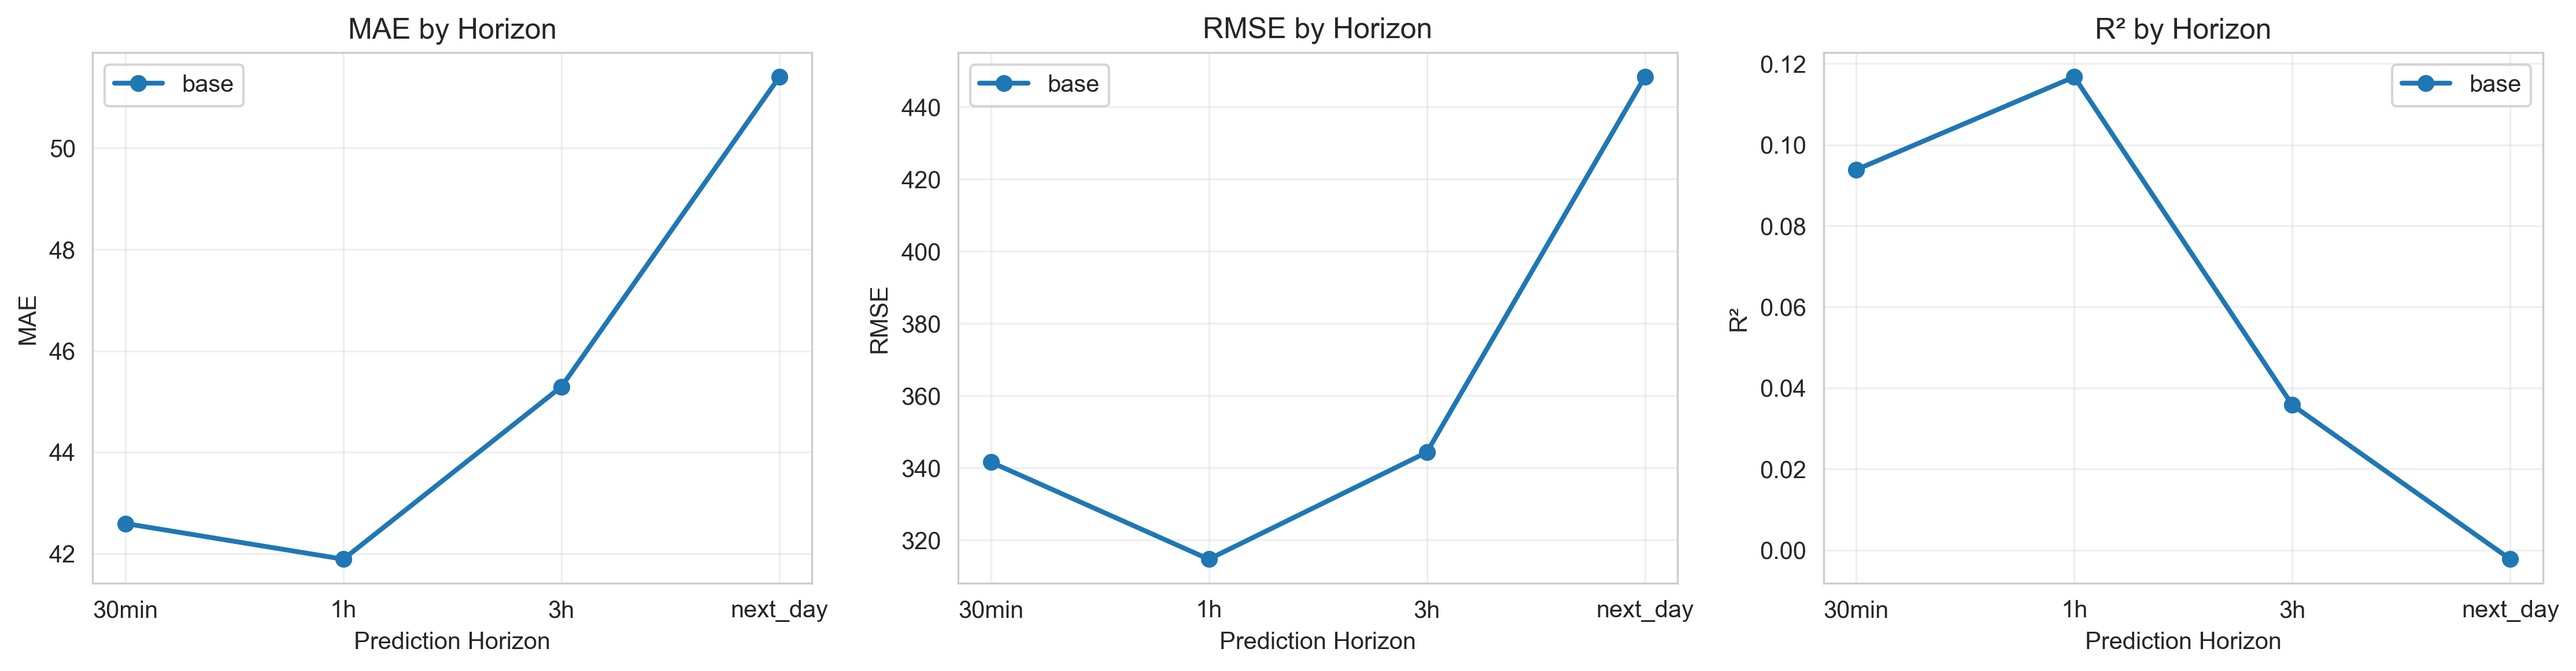
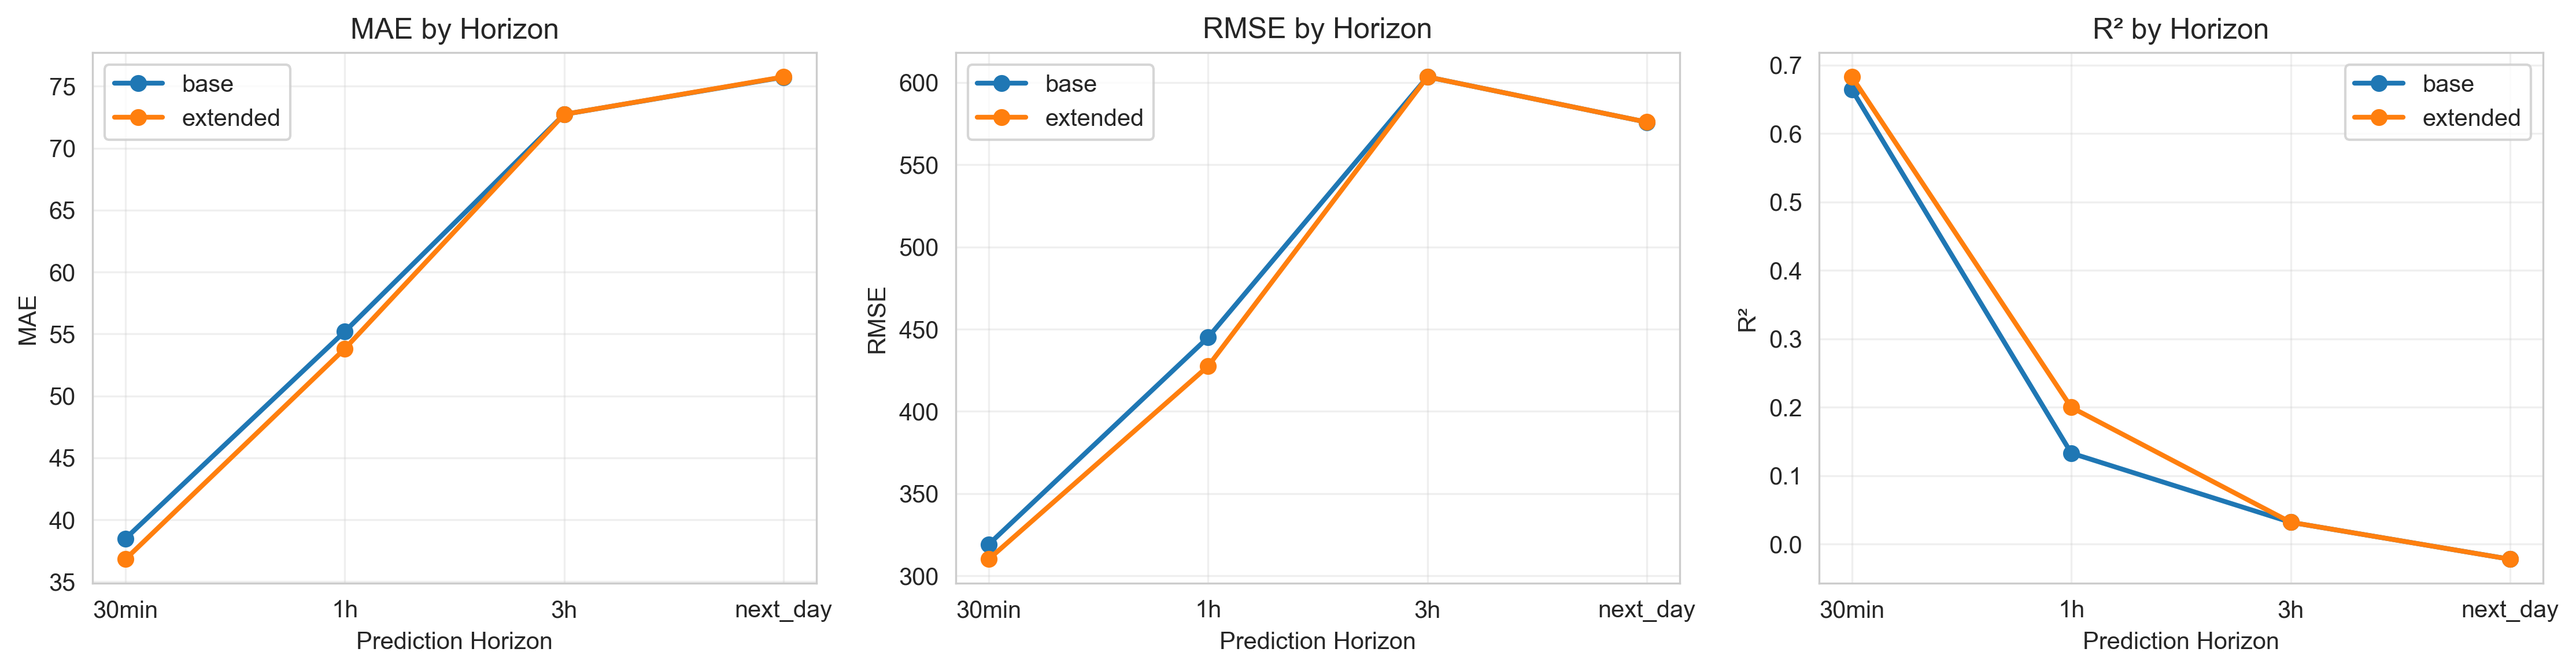
Add external factors to RQ1
- External factors (Match day & Holiday) are added to feature
  engineering.
- Outputs are updated.

diff --git a/src/feature_engineer.py b/src/feature_engineer.py
@@ -1,5 +1,6 @@
 import pandas as pd
 import numpy as np
+import holidays
 from pathlib import Path
 
 """
@@ -21,6 +22,23 @@ def load_processed_data(re5_path='data/processed/re5_processed.csv',
     re6 = pd.read_csv(re6_path, parse_dates=['trip_start_date', 'trip_dep_time', 'trip_arr_time'])
     
     return re5, re6
+
+
+def add_holiday_flag(df, country='DE', prov='BB'):
+    """
+    Add is_holiday column using python-holidays.
+    
+    Germany (DE), Brandenburg (BB) for Potsdam/Berlin region.
+    """
+    if not np.issubdtype(df['trip_start_date'].dtype, np.datetime64):
+        df['trip_start_date'] = pd.to_datetime(df['trip_start_date'])
+
+    years = sorted(df['trip_start_date'].dt.year.unique())
+    de_holidays = holidays.country_holidays(country, subdiv=prov, years=years)
+
+    df['is_holiday'] = df['trip_start_date'].dt.date.apply(lambda d: d in de_holidays)
+
+    return df
 
 
 def create_horizon_targets(df, horizons={'30min': 1, '1h': 2, '3h': 6, 'next_day': 48}):
@@ -77,10 +95,15 @@ def select_features(df, feature_set='base'):
         'is_match_day',
         'occ_pct',  # current occupancy at this stop
     ]
+
+    # external factors
+    external_flags = [
+        'is_match_day',
+        'is_holiday',
+    ]
     
     if feature_set == 'extended':
-        # TODO: Add external factors later
-        return base_features
+        return base_features + external_flags
     
     return base_features
 
@@ -116,10 +139,12 @@ def save_engineered_data(df, output_path='data/processed/re5_with_targets.csv'):
 
 def main():
     """Main execution."""
-    
     # Load
     re5, re6 = load_processed_data()
     
+    # Add Holiday flag
+    re5 = add_holiday_flag(re5)
+
     # Create targets
     re5_targets = create_horizon_targets(re5)
     

diff --git a/src/evaluate.py b/src/evaluate.py
@@ -118,11 +118,6 @@ def main():
     summary = create_rq1_summary(results_df)
     
     print("RQ1 EVALUATION COMPLETED")
-    print("\nKey Findings:")
-    print("1. Performance degrades as prediction horizon increases (expected)")
-    print("2. Base features achieve reasonable accuracy for short-term forecasting")
-    print("3. Next step: Add external factors (weather, events) to improve performance")
-
 
 if __name__ == '__main__':
     main()
